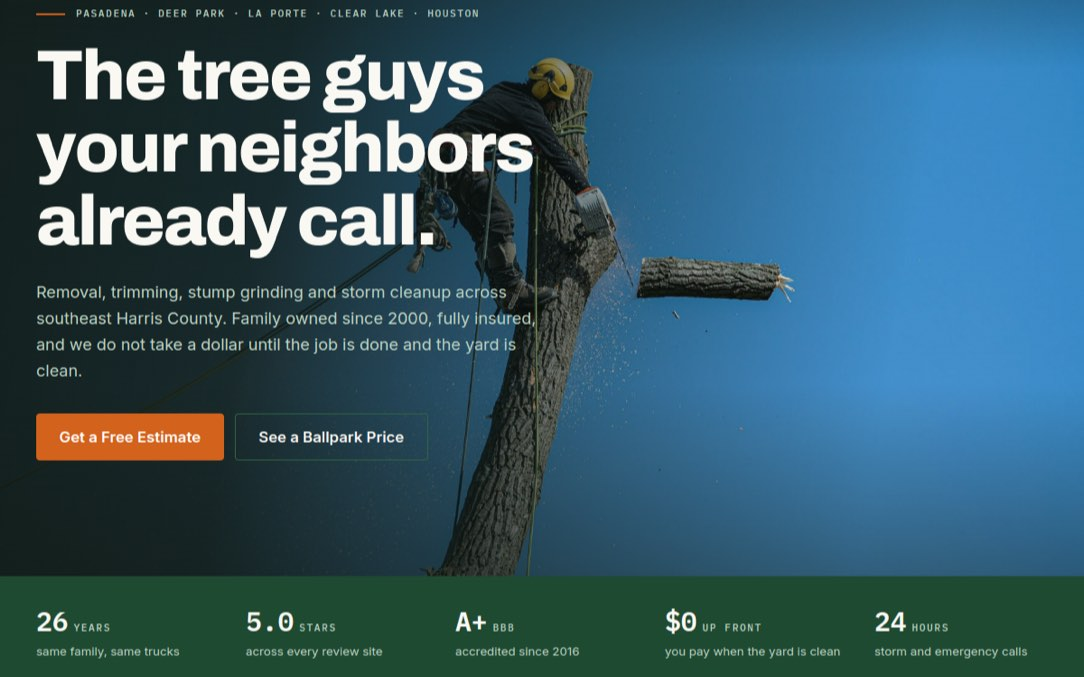
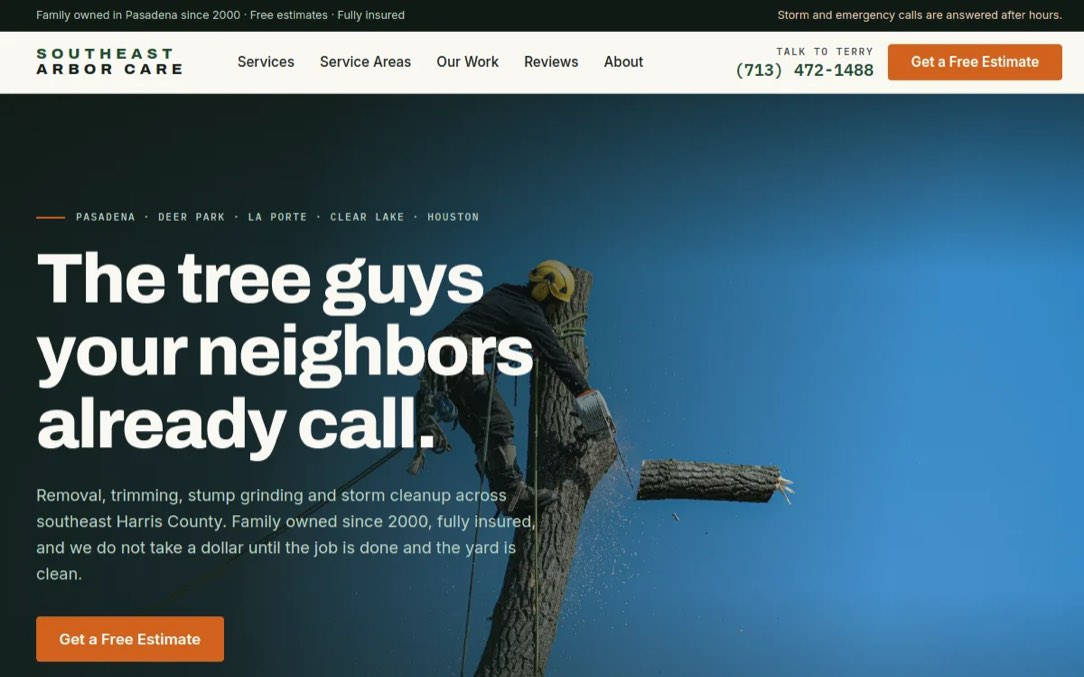
Take the estimator out of the Southeast Arbor Care entry and recapture it

diff --git a/src/app/data/portfolioStudies.js b/src/app/data/portfolioStudies.js
@@ -271,9 +271,9 @@ const STUDY_BODIES = {
   'southeast-arbor-care': {
     title: 'Southeast Arbor Care Site, Pasadena TX',
     description:
-      'How the Southeast Arbor Care site works: a page for each tree service and each town the trucks reach, a ballpark price range, and a short estimate form.',
+      'How the Southeast Arbor Care site works: a page for each tree service and each town the trucks reach, and an estimate form that takes a photo of the tree.',
     summary:
-      'A family tree service in Pasadena, on a site that puts a price range on the front page before anyone has to call.',
+      'A family tree service in Pasadena, on a site built around the jobs it takes and the towns it works.',
     sector: 'Tree service',
     business: [
       'Terry Lloyd started Southeast Arbor Care in Pasadena, Texas, in 2000. The work is removal, trimming and pruning, stump grinding, storm and emergency calls, lot clearing, and tree health work such as deep-root feeding and cabling.',
@@ -287,10 +287,6 @@ const STUDY_BODIES = {
       {
         title: 'Towns written one at a time',
         body: 'Each town the trucks reach has its own page about the trees that grow there: water oak and pine in Pasadena, salt-burned foliage in La Porte, the old live oaks of Clear Lake.',
-      },
-      {
-        title: 'A ballpark before the call',
-        body: 'The front page asks what needs doing, how tall the tree is, and whether a truck can get to it, then shows a price range. It says plainly that the range is not a quote.',
       },
       {
         title: 'The number stays in reach',

diff --git a/src/app/data/portfolio.js b/src/app/data/portfolio.js
@@ -135,7 +135,7 @@ export const PORTFOLIO_PROJECTS = [
     town: 'Pasadena',
     location: 'Pasadena, Texas',
     description:
-      'Removal, trimming, stump grinding and storm work, out of a Pasadena family business started in 2000. Every service and every town the trucks work has a page of its own, and the front page answers the usual first question, what it costs, with a ballpark range.',
+      'Removal, trimming, stump grinding and storm work, out of a Pasadena family business started in 2000. Every service and every town the trucks work has a page of its own, and on a phone the number to call stays pinned to the bottom of the screen.',
     pagespeed: { mobile: 92, desktop: 100, runs: 5, measured: '2026-09-25' },
     hasStudy: true,
   },
